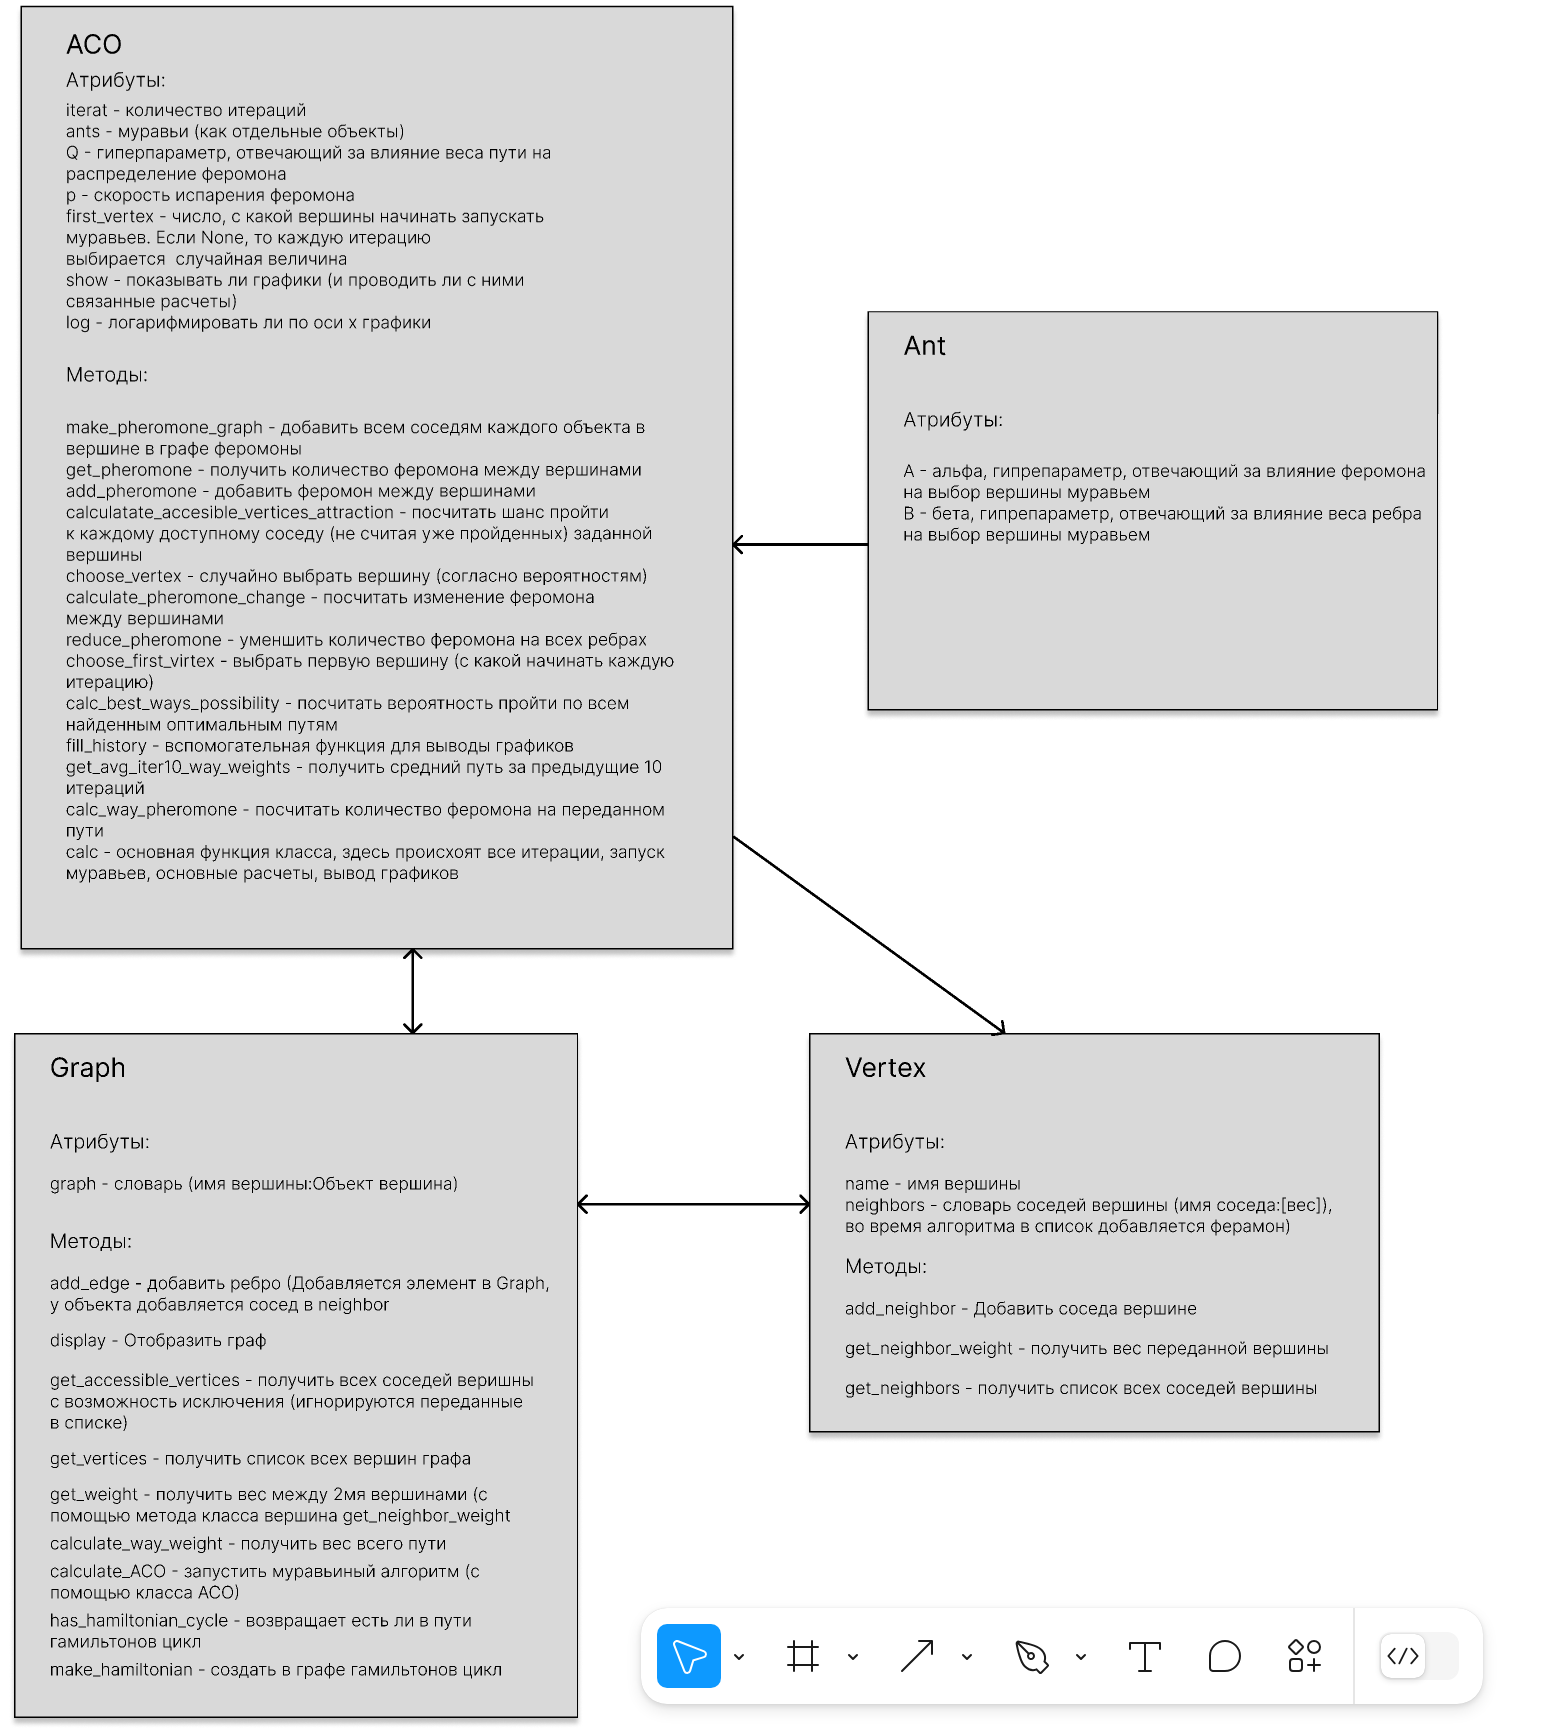
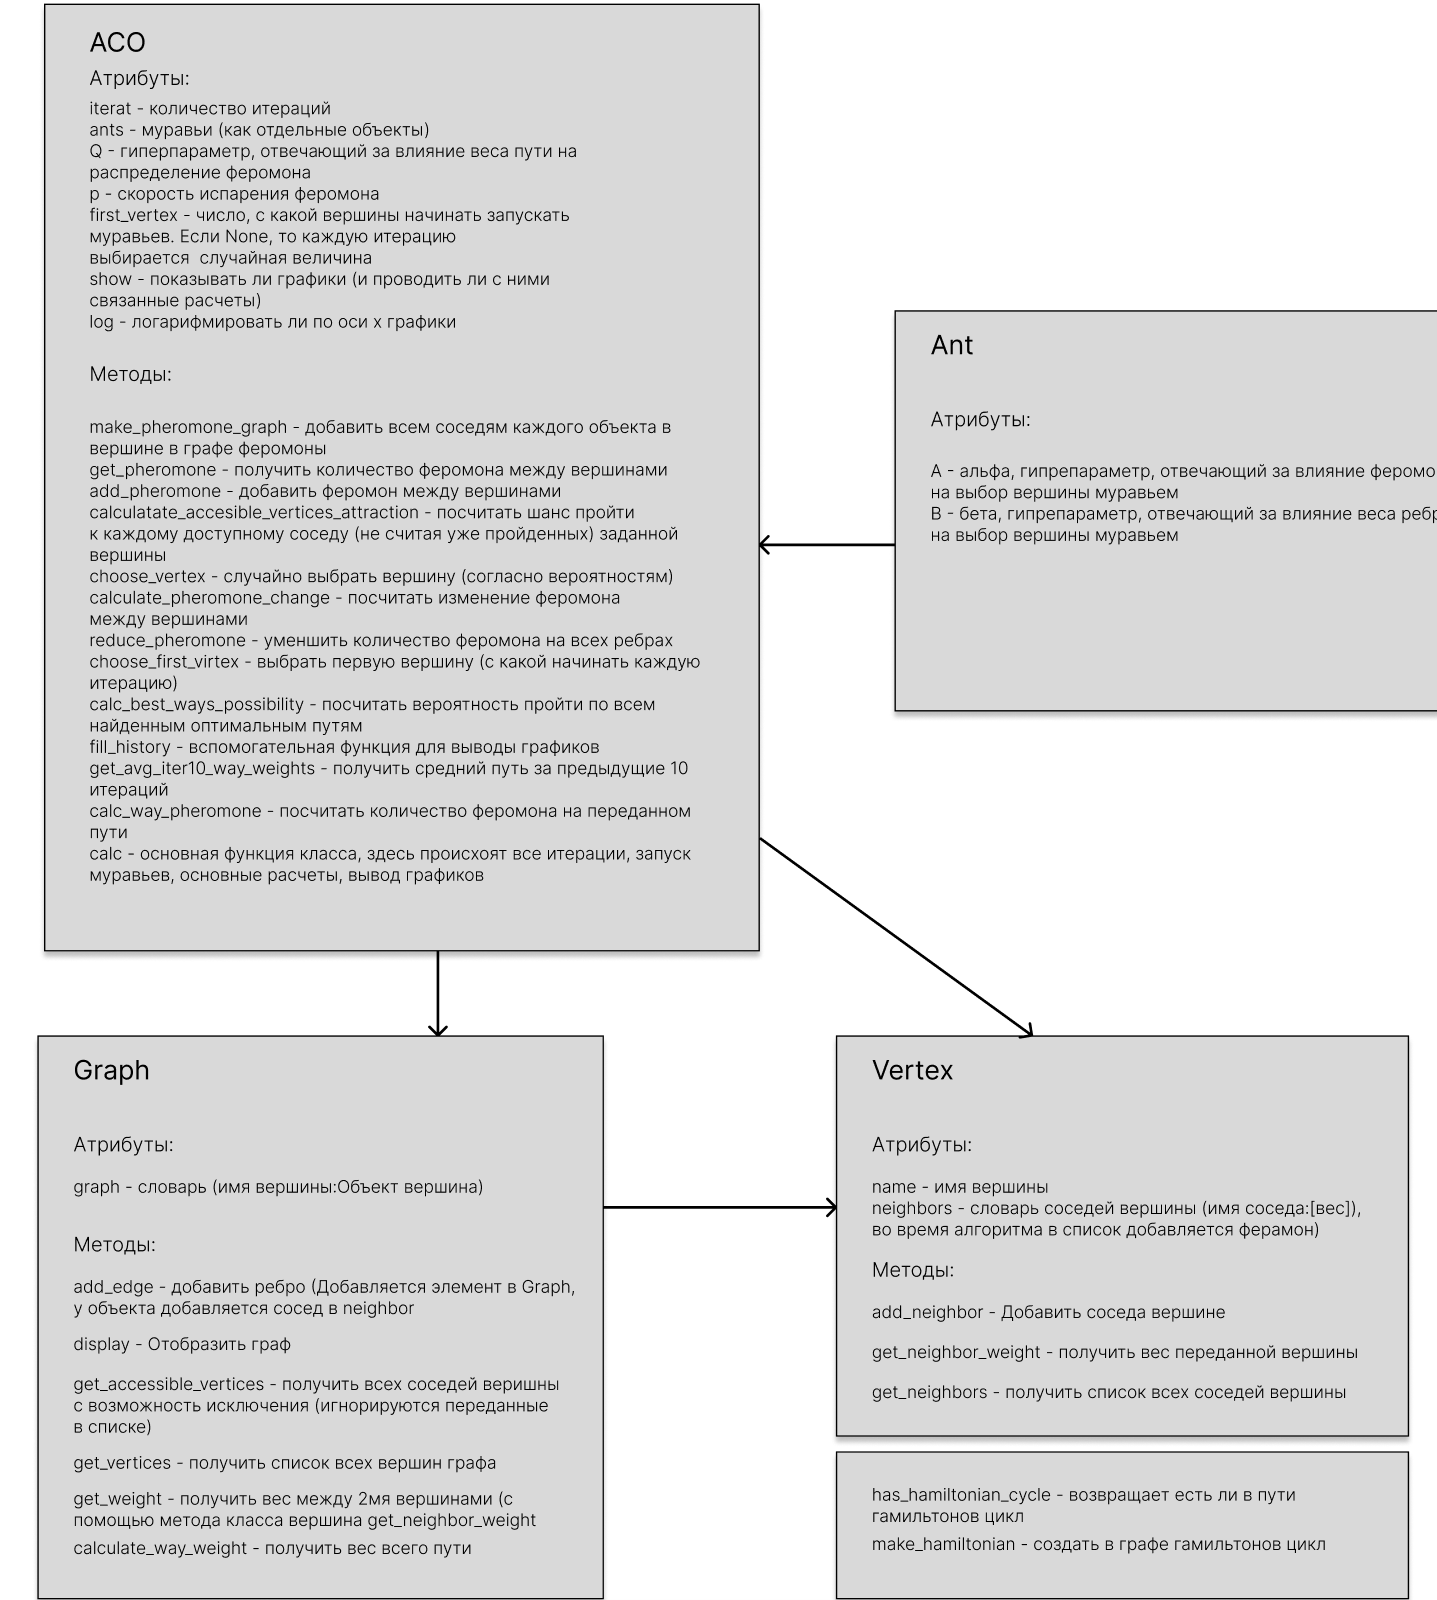
изменения схемы, файловой структуры

diff --git a/main.py b/main.py
@@ -1,5 +1,8 @@
 from graph.graph import Graph 
 from graph.algorithm.ant.ant import Ant
+from graph.algorithm.ACO import ACO
+from graph.hamiltonian import make_hamiltonian, has_hamiltonian_cycle
+
 import random
 import time
 
@@ -14,26 +17,26 @@ with open(graph_name) as f:
         g.add_edge(vertex1, vertex2, int(weight))
 
 print("Проверка на наличие гамильтонова цикла")
-has_hamiltonian_cycle = g.has_hamiltonian_cycle()
-if has_hamiltonian_cycle:
+if_has_hamiltonian_cycle = has_hamiltonian_cycle(g)
+if if_has_hamiltonian_cycle:
     print("Гамильтонов цикл существует")
 else:
     print("Гамильтонов цикл не найден")
     
     print("Попытка создать в графе гамильтонов цикл")
     start_time = time.time()
-    added_edges_amount = g.make_hamiltonian()
+    added_edges_amount = make_hamiltonian(g)
     calculating_time = time.time() - start_time
     print(f"Гамильтонов цикл создан за {calculating_time}; количество добавленных ребер: {added_edges_amount}")
         
     print("Проверка на наличие гамильтонова цикла")
-    has_hamiltonian_cycle =  g.has_hamiltonian_cycle()
+    if_has_hamiltonian_cycle =  has_hamiltonian_cycle(g)
     if has_hamiltonian_cycle:
         print("Гамильтонов цикл существует")
     else:
         print("Гамильтонов цикл не найден")
         
-if has_hamiltonian_cycle:
+if if_has_hamiltonian_cycle:
     ants = []
     for i in range(5):
         ants.append(Ant(1.2, 0.6))
@@ -42,13 +45,29 @@ if has_hamiltonian_cycle:
         ants.append(Ant(1.3, 0.7))
         
     print("запуск муравьев")
+    
+    iterat = 3000
+    Q = 1
+    p = 0.1
+    first_vertex = None 
+    show = True 
+    log = True
+    
+    # iterat = 20
+    # Q = 1
+    # p = 0
+    # first_vertex = 0
+    # show = False
+    # log = False
+    
     start_time = time.time()
-    result = g.calculate_ACO(iterat = 3000, ants=ants, Q=1, p=0.1, first_vertex=None, show=True, log=True)
-    # result = g.calculate_ACO(iterat = 20, ants=ants, Q=1, p=0, first_vertex=0, show=True, log=False)
+    alg = ACO(iterat, ants, Q, p, first_vertex, show, log)
+    result = alg.calc(g)
     calculating_time = time.time() - start_time
-if result:
-    print(f'найденный кратчайший путь: {result}, за время: {calculating_time}')
-else:
-    print(F'алгоритм не нашел кратчайший путь {calculating_time}')
+    
+    if result:
+        print(f'найденный кратчайший путь: {result}, за время: {calculating_time}')
+    else:
+        print(F'алгоритм не нашел кратчайший путь {calculating_time}')
 
 

diff --git a/graph/graph.py b/graph/graph.py
@@ -40,51 +40,7 @@ class Graph:
                 weight += edge_weight
         return weight
 
-    def calculate_ACO(self, iterat=100, ants=None, Q=4, p=1, first_vertex=None, show=True, log=True):
-        alg = ACO(iterat, ants, Q, p, first_vertex, show, log)
-        return alg.calc(self)
-
-    def is_hamiltonian_cycle(self, path, pos, vertices):
-        if pos == len(vertices):  
-            return self.get_weight(path[pos - 1], path[0]) is not None
-
-        for vertex in vertices:
-            if vertex not in path and self.get_weight(path[pos - 1], vertex) is not None:
-                path[pos] = vertex
-                if self.is_hamiltonian_cycle(path, pos + 1, vertices):
-                    return True
-                path[pos] = None
-
-        return False
-
-    def has_hamiltonian_cycle(self):
-        vertices = self.get_vertices()
-        path = [None] * len(vertices)
-        path[0] = vertices[0]
-        return self.is_hamiltonian_cycle(path, 1, vertices)
-
-    def make_hamiltonian(self):
-        added_edges_amount = 0
-        vertices = self.get_vertices()
-        vertices_deg = {vertex: self.get_accessible_vertices(vertex) for vertex in vertices}
-        vertices_deg = sorted(vertices_deg.items(), key=lambda item: len(item[1]))
-
-        proper_deg = (len(vertices) + 1) // 4
-        while True:
-            for i in range(len(vertices_deg) - 1):
-                if vertices_deg[i + 1][0] not in vertices_deg[0][1]:
-                    self.add_edge(vertices_deg[0][0], vertices_deg[i + 1][0], 5)
-                    added_edges_amount += 1
-                    vertices_deg[0][1].append(vertices_deg[i + 1][0])
-                    if vertices_deg[0][0] not in vertices_deg[i + 1][1]:
-                        self.add_edge(vertices_deg[i + 1][0], vertices_deg[0][0], 5)
-                        added_edges_amount += 1
-                        vertices_deg[i + 1][1].append(vertices_deg[0][0])
-                    break
-            vertices_deg = sorted(vertices_deg, key=lambda item: len(item[1]))
-            if len(vertices_deg[0][1]) >= proper_deg:
-                return added_edges_amount
-
+    
     # def extend_way(self, way, vertices, ways_edges, added_edges_amount, edge_weight, vertices_deg):
     #     while True:
     #         for vertex in vertices:

diff --git a/graph/hamiltonian.py b/graph/hamiltonian.py
@@ -1,0 +1,42 @@
+from graph.graph import Graph 
+
+def is_hamiltonian_cycle(graph, path, pos, vertices):
+        if pos == len(vertices):  
+            return graph.get_weight(path[pos - 1], path[0]) is not None
+
+        for vertex in vertices:
+            if vertex not in path and graph.get_weight(path[pos - 1], vertex) is not None:
+                path[pos] = vertex
+                if is_hamiltonian_cycle(graph, path, pos + 1, vertices):
+                    return True
+                path[pos] = None
+
+        return False
+
+def has_hamiltonian_cycle(graph):
+    vertices = graph.get_vertices()
+    path = [None] * len(vertices)
+    path[0] = vertices[0]
+    return is_hamiltonian_cycle(graph, path, 1, vertices)
+
+def make_hamiltonian(graph):
+    added_edges_amount = 0
+    vertices = graph.get_vertices()
+    vertices_deg = {vertex: graph.get_accessible_vertices(vertex) for vertex in vertices}
+    vertices_deg = sorted(vertices_deg.items(), key=lambda item: len(item[1]))
+
+    proper_deg = (len(vertices) + 1) // 4
+    while True:
+        for i in range(len(vertices_deg) - 1):
+            if vertices_deg[i + 1][0] not in vertices_deg[0][1]:
+                graph.add_edge(vertices_deg[0][0], vertices_deg[i + 1][0], 5)
+                added_edges_amount += 1
+                vertices_deg[0][1].append(vertices_deg[i + 1][0])
+                if vertices_deg[0][0] not in vertices_deg[i + 1][1]:
+                    graph.add_edge(vertices_deg[i + 1][0], vertices_deg[0][0], 5)
+                    added_edges_amount += 1
+                    vertices_deg[i + 1][1].append(vertices_deg[0][0])
+                break
+        vertices_deg = sorted(vertices_deg, key=lambda item: len(item[1]))
+        if len(vertices_deg[0][1]) >= proper_deg:
+            return added_edges_amount
